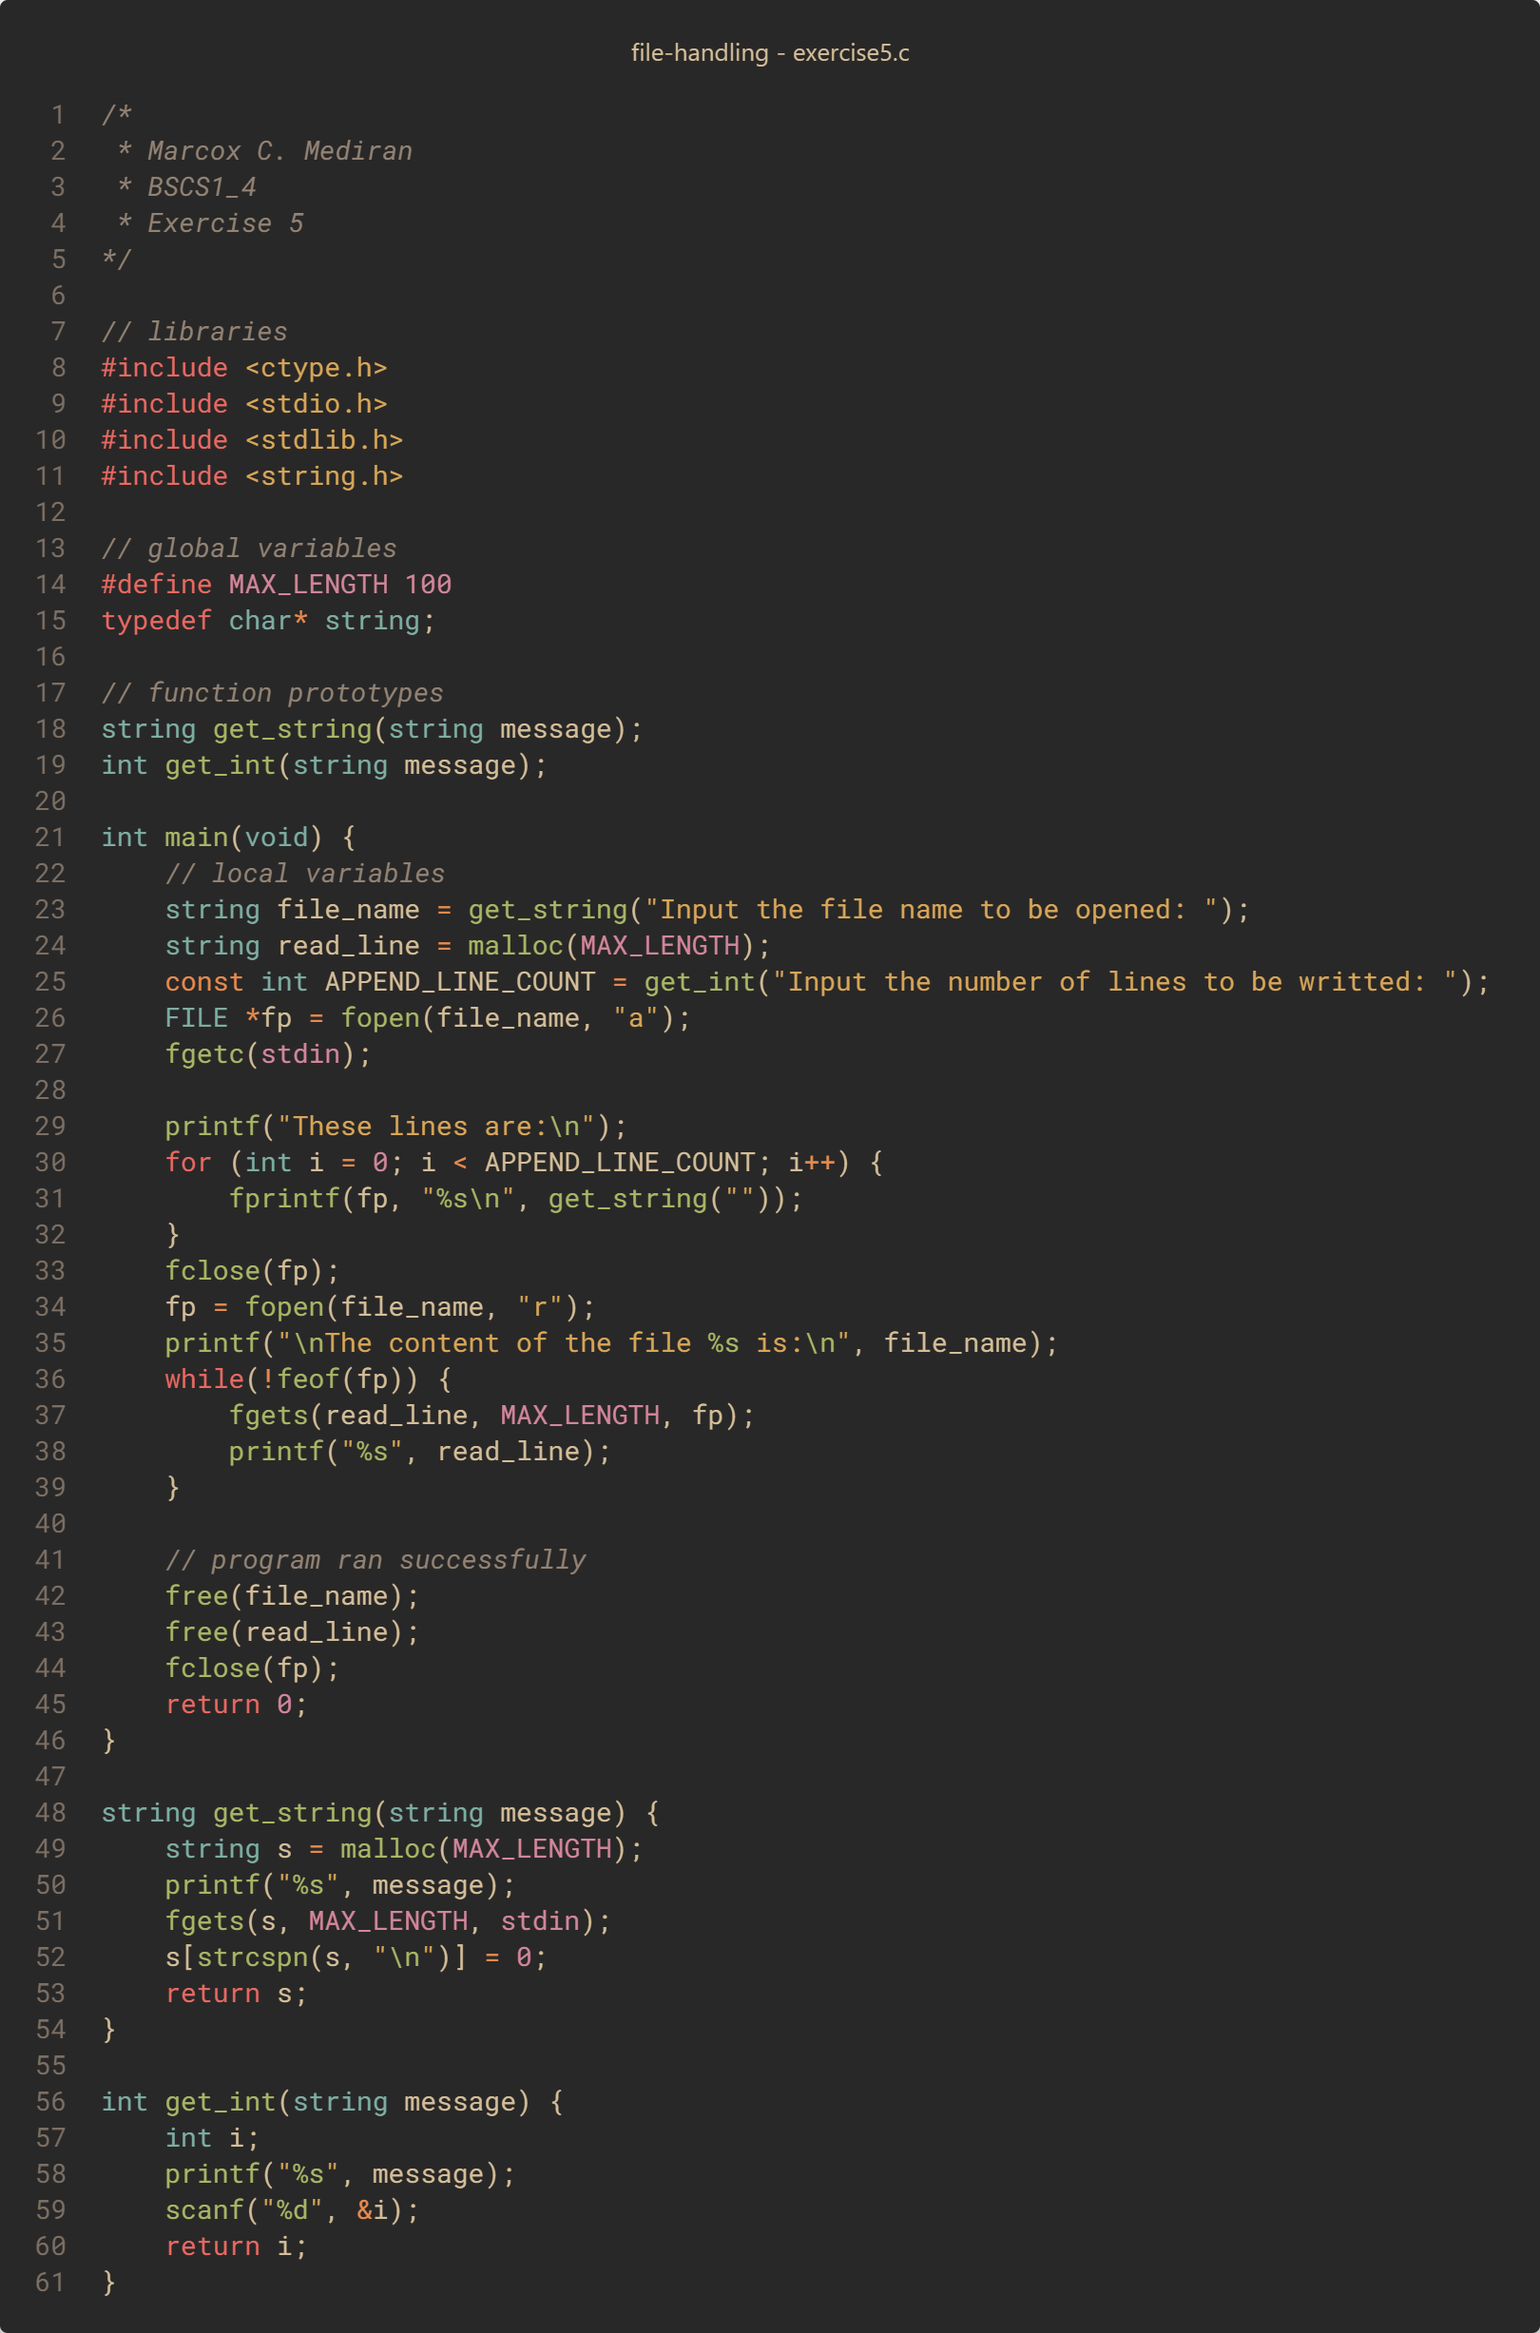
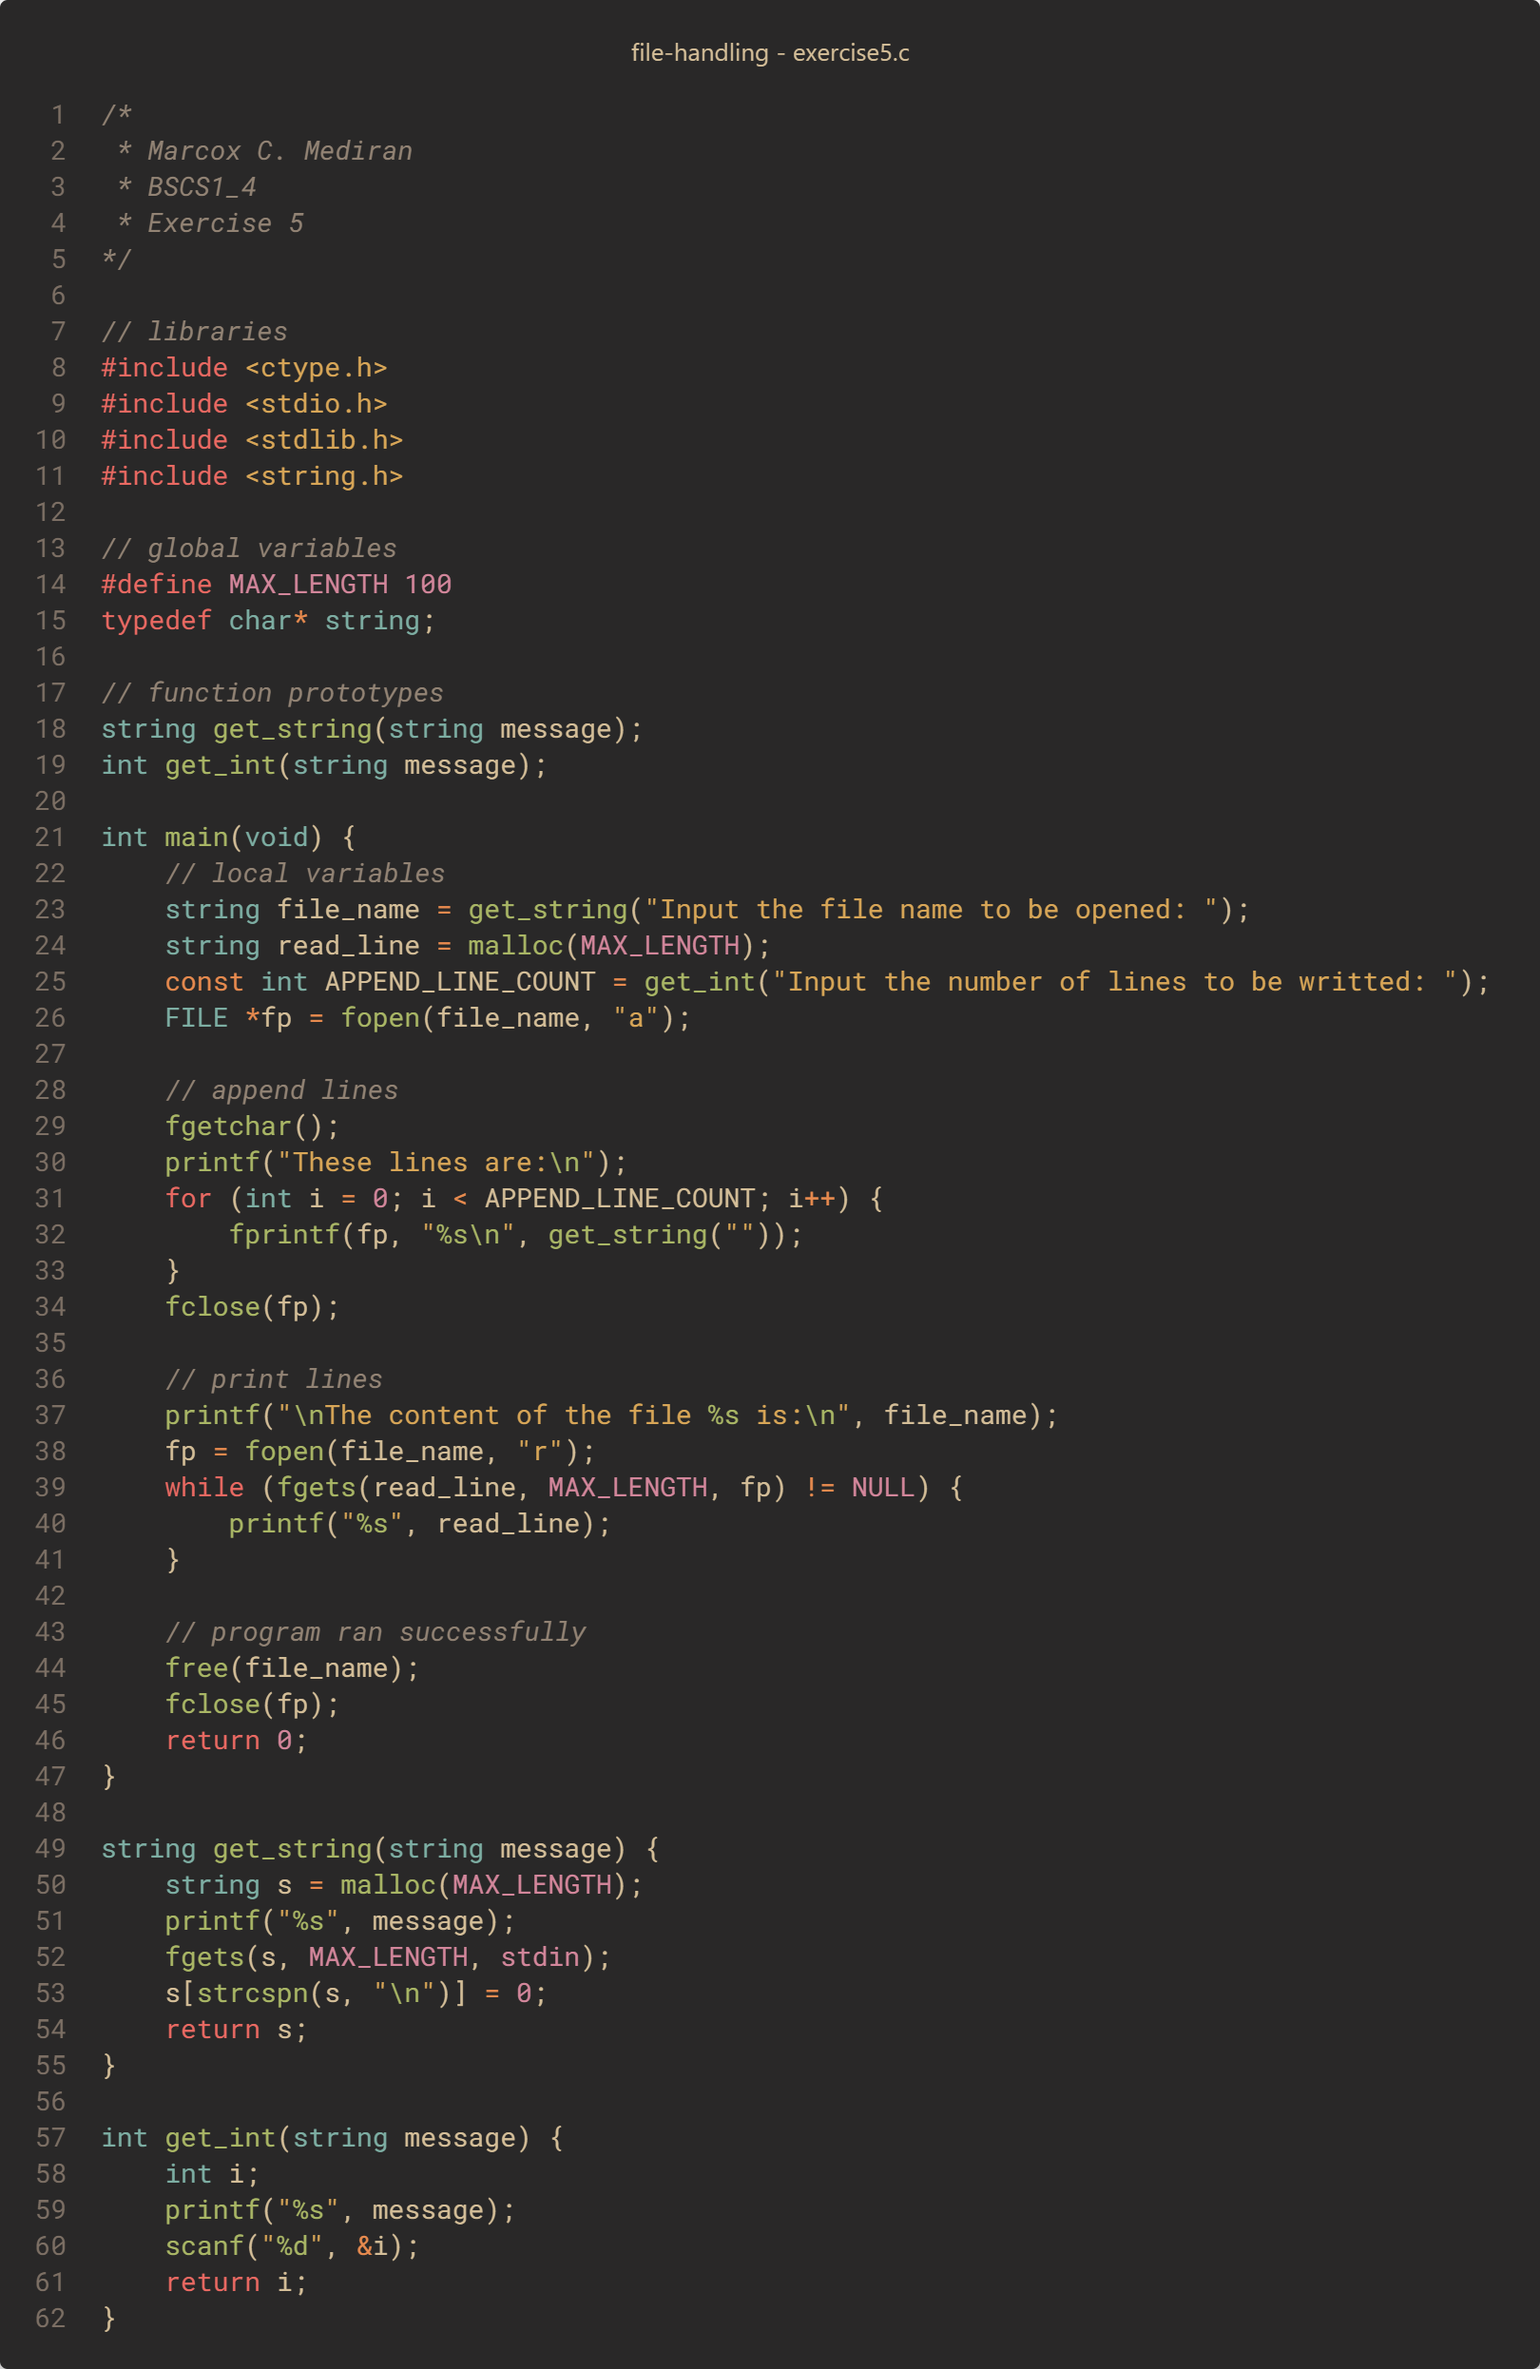
fixed issue where last line gets printed twice

diff --git a/comprog/1-2/file-handling/exercise5.c b/comprog/1-2/file-handling/exercise5.c
@@ -24,23 +24,24 @@ int main(void) {
     string read_line = malloc(MAX_LENGTH);
     const int APPEND_LINE_COUNT = get_int("Input the number of lines to be writted: ");
     FILE *fp = fopen(file_name, "a");
-    fgetc(stdin);
 
+    // append lines
+    fgetchar();
     printf("These lines are:\n");
     for (int i = 0; i < APPEND_LINE_COUNT; i++) {
         fprintf(fp, "%s\n", get_string(""));
     }
     fclose(fp);
-    fp = fopen(file_name, "r");
+
+    // print lines
     printf("\nThe content of the file %s is:\n", file_name);
-    while(!feof(fp)) {
-        fgets(read_line, MAX_LENGTH, fp); 
+    fp = fopen(file_name, "r");
+    while (fgets(read_line, MAX_LENGTH, fp) != NULL) {
         printf("%s", read_line);
     }
 
     // program ran successfully
     free(file_name);
-    free(read_line);
     fclose(fp);
     return 0;
 }
